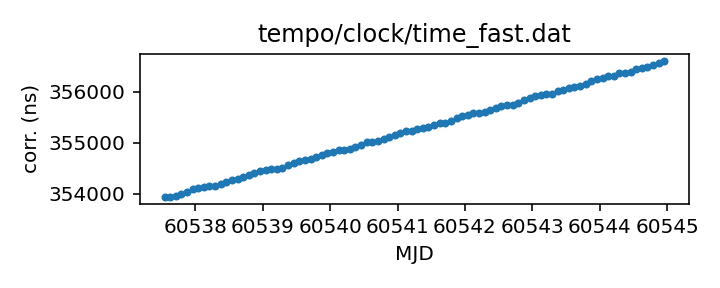
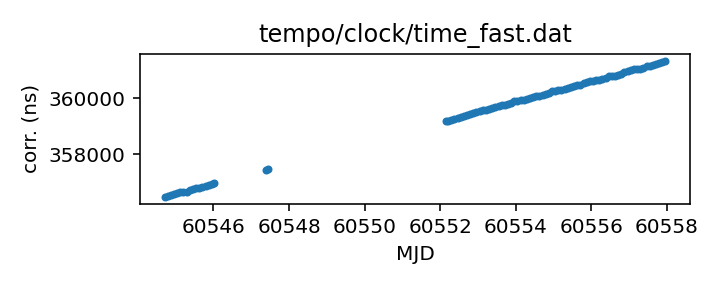
Routine gh-pages update from Github action Fri Sep  6 20:32:08 UTC 2024

diff --git a/status.md b/status.md
@@ -13,18 +13,18 @@ name of each clock file links to a page with more details.
 
 | Name | File | Corrections start | Corrections end | Last check date | Last check result 
 |:--- |:--- | --- | --- | --- |:--- 
-| [GPS to UTC](T2runtime/clock/gps2utc.clk.html) | `T2runtime/clock/gps2utc.clk` | 1993-01-01 MJD 48988.0 | 2024-04-29 MJD 60429.0 | 2024-09-05 | Unchanged 
-| [GPS to UTC (Combined Clock)](T2runtime/clock/gps2utc_cc.clk.html) | `T2runtime/clock/gps2utc_cc.clk` | 1993-01-01 MJD 48988.0 | 2024-04-29 MJD 60429.0 | 2024-09-05 | Unchanged 
-| [GPS to UTC (Corrected)](T2runtime/clock/gps2utc_c0p.clk.html) | `T2runtime/clock/gps2utc_c0p.clk` | 2010-12-29 MJD 55559.0 | 2024-04-29 MJD 60429.0 | 2024-09-05 | Unchanged 
-| [GBT](tempo/clock/time_gbt.dat.html) | `tempo/clock/time_gbt.dat` | 2000-12-31 MJD 51909.5 | 2024-05-18 MJD 60448.5 | 2024-09-05 | **Validation failed** 
+| [GPS to UTC](T2runtime/clock/gps2utc.clk.html) | `T2runtime/clock/gps2utc.clk` | 1993-01-01 MJD 48988.0 | 2024-04-29 MJD 60429.0 | 2024-09-06 | Unchanged 
+| [GPS to UTC (Combined Clock)](T2runtime/clock/gps2utc_cc.clk.html) | `T2runtime/clock/gps2utc_cc.clk` | 1993-01-01 MJD 48988.0 | 2024-04-29 MJD 60429.0 | 2024-09-06 | Unchanged 
+| [GPS to UTC (Corrected)](T2runtime/clock/gps2utc_c0p.clk.html) | `T2runtime/clock/gps2utc_c0p.clk` | 2010-12-29 MJD 55559.0 | 2024-04-29 MJD 60429.0 | 2024-09-06 | Unchanged 
+| [GBT](tempo/clock/time_gbt.dat.html) | `tempo/clock/time_gbt.dat` | 2000-12-31 MJD 51909.5 | 2024-05-18 MJD 60448.5 | 2024-09-06 | **Validation failed** 
 | [GBT (TEMPO2 converted from TEMPO)](T2runtime/clock/gbt2gps.clk.html) | `T2runtime/clock/gbt2gps.clk` | 2000-12-31 MJD 51909.5 | 2024-05-18 MJD 60448.5 | 2024-05-19 | Updated 
-| [Jodrell Bank](T2runtime/clock/jb2gps.clk.html) | `T2runtime/clock/jb2gps.clk` | 2006-10-13 MJD 54021.4 | 2023-12-04 MJD 60282.0 | 2024-08-30 | Unchanged 
-| [Jodrell Bank Roach](T2runtime/clock/jbroach2jb.clk.html) | `T2runtime/clock/jbroach2jb.clk` | 2006-10-13 MJD 54021.4 | 2018-03-20 MJD 58197.6 | 2024-08-30 | Unchanged 
-| [Jodrell Bank DFB](T2runtime/clock/jbdfb2jb.clk.html) | `T2runtime/clock/jbdfb2jb.clk` | 2006-10-13 MJD 54021.4 | 2017-05-11 MJD 57884.0 | 2024-08-30 | Unchanged 
-| [Meerkat (observatory)](T2runtime/clock/mk2utc_observatory.clk.html) | `T2runtime/clock/mk2utc_observatory.clk` | 2019-01-01 MJD 58484.0 | 2024-04-24 MJD 60425.0 | 2024-08-30 | **Failed to download** 
-| [Leap seconds](tempo/clock/leap.sec.html) | `tempo/clock/leap.sec` | 1972-07-01 MJD 41499.0 | 2017-01-01 MJD 57754.0 | 2024-09-05 | Unchanged 
-| [UT1 table](tempo/clock/ut1.dat.html) | `tempo/clock/ut1.dat` | 1973-01-02 MJD 41684.0 | 2025-09-13 MJD 60931.0 | 2024-09-05 | Updated 
-| [UT1 table](T2runtime/clock/ut1.dat.html) | `T2runtime/clock/ut1.dat` | 1973-01-02 MJD 41684.0 | 2025-09-13 MJD 60931.0 | 2024-09-05 | Updated 
+| [Jodrell Bank](T2runtime/clock/jb2gps.clk.html) | `T2runtime/clock/jb2gps.clk` | 2006-10-13 MJD 54021.4 | 2023-12-04 MJD 60282.0 | 2024-09-06 | Unchanged 
+| [Jodrell Bank Roach](T2runtime/clock/jbroach2jb.clk.html) | `T2runtime/clock/jbroach2jb.clk` | 2006-10-13 MJD 54021.4 | 2018-03-20 MJD 58197.6 | 2024-09-06 | Unchanged 
+| [Jodrell Bank DFB](T2runtime/clock/jbdfb2jb.clk.html) | `T2runtime/clock/jbdfb2jb.clk` | 2006-10-13 MJD 54021.4 | 2017-05-11 MJD 57884.0 | 2024-09-06 | Unchanged 
+| [Meerkat (observatory)](T2runtime/clock/mk2utc_observatory.clk.html) | `T2runtime/clock/mk2utc_observatory.clk` | 2019-01-01 MJD 58484.0 | 2024-04-24 MJD 60425.0 | 2024-09-06 | **Failed to download** 
+| [Leap seconds](tempo/clock/leap.sec.html) | `tempo/clock/leap.sec` | 1972-07-01 MJD 41499.0 | 2017-01-01 MJD 57754.0 | 2024-09-06 | Unchanged 
+| [UT1 table](tempo/clock/ut1.dat.html) | `tempo/clock/ut1.dat` | 1973-01-02 MJD 41684.0 | 2025-09-13 MJD 60931.0 | 2024-09-06 | Unchanged 
+| [UT1 table](T2runtime/clock/ut1.dat.html) | `T2runtime/clock/ut1.dat` | 1973-01-02 MJD 41684.0 | 2025-09-13 MJD 60931.0 | 2024-09-06 | Unchanged 
 
 
 
@@ -67,26 +67,26 @@ name of each clock file links to a page with more details.
 
 | Name | File | Corrections start | Corrections end | Last check date | Last check result 
 |:--- |:--- | --- | --- | --- |:--- 
-| [GPS to UTC (TEMPO2)](T2runtime/clock/gps2utc_tempo2.clk.html) | `T2runtime/clock/gps2utc_tempo2.clk` | 1996-03-27 MJD 50169.0 | 2022-10-27 MJD 59879.0 | 2024-08-30 | **Failed to download** 
-| [GBT (TEMPO2)](T2runtime/clock/gbt2gps_tempo2.clk.html) | `T2runtime/clock/gbt2gps_tempo2.clk` | 2000-12-31 MJD 51909.5 | 2020-02-25 MJD 58904.5 | 2024-08-30 | Unchanged 
-| [Jodrell Bank (TEMPO)](tempo/clock/time_jb.dat.html) | `tempo/clock/time_jb.dat` | 2006-10-13 MJD 54021.4 | 2019-05-13 MJD 58616.2 | 2024-08-30 | Unchanged 
-| [VLA](tempo/clock/time_vla.dat.html) | `tempo/clock/time_vla.dat` | 1990-10-27 MJD 48191.2 | 2021-03-07 MJD 59280.5 | 2024-08-30 | Unchanged 
-| [VLA (TEMPO2)](T2runtime/clock/vla2gps.clk.html) | `T2runtime/clock/vla2gps.clk` | 2015-02-01 MJD 57054.6 | 2021-03-07 MJD 59280.5 | 2024-08-30 | Unchanged 
-| [VLA to NIST](T2runtime/clock/vla2nist.clk.html) | `T2runtime/clock/vla2nist.clk` | 1990-10-27 MJD 48191.2 | 1993-11-13 MJD 49304.0 | 2024-08-30 | Unchanged 
-| [FAST](tempo/clock/time_fast.dat.html) | `tempo/clock/time_fast.dat` | 2017-07-27 MJD 57961.0 | 2024-08-22 MJD 60545.0 | 2024-08-30 | Updated 
-| [WSRT](T2runtime/clock/wsrt2gps.clk.html) | `T2runtime/clock/wsrt2gps.clk` | 1999-01-01 MJD 51179.5 | 2015-06-29 MJD 57202.1 | 2024-08-30 | Unchanged 
-| [WSRT (TEMPO)](tempo/clock/time_wsrt.dat.html) | `tempo/clock/time_wsrt.dat` | 1987-07-24 MJD 47000.0 | 2007-12-24 MJD 54458.0 | 2024-08-30 | **Validation failed** 
-| [Parkes](T2runtime/clock/pks2gps.clk.html) | `T2runtime/clock/pks2gps.clk` | 1858-11-17 MJD 0.0 | 2024-07-31 MJD 60522.1 | 2024-08-30 | Unchanged 
-| [Parkes (TEMPO)](tempo/clock/time_pks.dat.html) | `tempo/clock/time_pks.dat` | 1979-05-07 MJD 44000.0 | 2011-07-03 MJD 55745.8 | 2024-08-30 | **Validation failed** 
-| [SRT](T2runtime/clock/srt2gps.clk.html) | `T2runtime/clock/srt2gps.clk` | 2013-03-20 MJD 56371.0 | 2019-12-11 MJD 58828.0 | 2024-08-30 | Unchanged 
-| [Effelsberg](T2runtime/clock/eff2gps.clk.html) | `T2runtime/clock/eff2gps.clk` | 1993-11-29 MJD 49320.0 | 2015-06-22 MJD 57195.5 | 2024-08-30 | Unchanged 
-| [Effelsberg Asterix/PSRix](T2runtime/clock/effix2gps.clk.html) | `T2runtime/clock/effix2gps.clk` | 2011-01-01 MJD 55562.5 | 2021-03-21 MJD 59294.5 | 2024-08-30 | Unchanged 
-| [LEAP](T2runtime/clock/leap2effix.clk.html) | `T2runtime/clock/leap2effix.clk` | 2012-10-29 MJD 56230.0 | 2014-03-04 MJD 56720.0 | 2024-08-30 | Unchanged 
-| [NUPPI](tempo/clock/time_nuppi.dat.html) | `tempo/clock/time_nuppi.dat` | 2005-03-07 MJD 53436.0 | 2015-11-08 MJD 57334.6 | 2024-08-30 | Unchanged 
-| [Meerkat (TEMPO2)](T2runtime/clock/mk2utc.clk.html) | `T2runtime/clock/mk2utc.clk` | 2019-01-01 MJD 58484.0 | 2023-10-18 MJD 60235.9 | 2024-08-30 | Unchanged 
-| [MOST](T2runtime/clock/mo2gps.clk.html) | `T2runtime/clock/mo2gps.clk` | 2003-12-27 MJD 53000.0 | 2018-09-06 MJD 58367.0 | 2024-08-30 | Unchanged 
-| [Nancay to obspm](T2runtime/clock/ncyobs2obspm.clk.html) | `T2runtime/clock/ncyobs2obspm.clk` | 1988-05-18 MJD 47299.6 | 2023-10-27 MJD 60244.0 | 2024-08-30 | Unchanged 
-| [obspm](T2runtime/clock/obspm2gps.clk.html) | `T2runtime/clock/obspm2gps.clk` | 2003-12-01 MJD 52974.0 | 2023-10-27 MJD 60244.0 | 2024-08-30 | Unchanged 
+| [GPS to UTC (TEMPO2)](T2runtime/clock/gps2utc_tempo2.clk.html) | `T2runtime/clock/gps2utc_tempo2.clk` | 1996-03-27 MJD 50169.0 | 2022-10-27 MJD 59879.0 | 2024-09-06 | **Failed to download** 
+| [GBT (TEMPO2)](T2runtime/clock/gbt2gps_tempo2.clk.html) | `T2runtime/clock/gbt2gps_tempo2.clk` | 2000-12-31 MJD 51909.5 | 2020-02-25 MJD 58904.5 | 2024-09-06 | Unchanged 
+| [Jodrell Bank (TEMPO)](tempo/clock/time_jb.dat.html) | `tempo/clock/time_jb.dat` | 2006-10-13 MJD 54021.4 | 2019-05-13 MJD 58616.2 | 2024-09-06 | Unchanged 
+| [VLA](tempo/clock/time_vla.dat.html) | `tempo/clock/time_vla.dat` | 1990-10-27 MJD 48191.2 | 2021-03-07 MJD 59280.5 | 2024-09-06 | Unchanged 
+| [VLA (TEMPO2)](T2runtime/clock/vla2gps.clk.html) | `T2runtime/clock/vla2gps.clk` | 2015-02-01 MJD 57054.6 | 2021-03-07 MJD 59280.5 | 2024-09-06 | Unchanged 
+| [VLA to NIST](T2runtime/clock/vla2nist.clk.html) | `T2runtime/clock/vla2nist.clk` | 1990-10-27 MJD 48191.2 | 1993-11-13 MJD 49304.0 | 2024-09-06 | Unchanged 
+| [FAST](tempo/clock/time_fast.dat.html) | `tempo/clock/time_fast.dat` | 2017-07-27 MJD 57961.0 | 2024-09-04 MJD 60558.0 | 2024-09-06 | Updated 
+| [WSRT](T2runtime/clock/wsrt2gps.clk.html) | `T2runtime/clock/wsrt2gps.clk` | 1999-01-01 MJD 51179.5 | 2015-06-29 MJD 57202.1 | 2024-09-06 | Unchanged 
+| [WSRT (TEMPO)](tempo/clock/time_wsrt.dat.html) | `tempo/clock/time_wsrt.dat` | 1987-07-24 MJD 47000.0 | 2007-12-24 MJD 54458.0 | 2024-09-06 | **Validation failed** 
+| [Parkes](T2runtime/clock/pks2gps.clk.html) | `T2runtime/clock/pks2gps.clk` | 1858-11-17 MJD 0.0 | 2024-07-31 MJD 60522.1 | 2024-09-06 | Unchanged 
+| [Parkes (TEMPO)](tempo/clock/time_pks.dat.html) | `tempo/clock/time_pks.dat` | 1979-05-07 MJD 44000.0 | 2011-07-03 MJD 55745.8 | 2024-09-06 | **Validation failed** 
+| [SRT](T2runtime/clock/srt2gps.clk.html) | `T2runtime/clock/srt2gps.clk` | 2013-03-20 MJD 56371.0 | 2019-12-11 MJD 58828.0 | 2024-09-06 | Unchanged 
+| [Effelsberg](T2runtime/clock/eff2gps.clk.html) | `T2runtime/clock/eff2gps.clk` | 1993-11-29 MJD 49320.0 | 2015-06-22 MJD 57195.5 | 2024-09-06 | Unchanged 
+| [Effelsberg Asterix/PSRix](T2runtime/clock/effix2gps.clk.html) | `T2runtime/clock/effix2gps.clk` | 2011-01-01 MJD 55562.5 | 2021-03-21 MJD 59294.5 | 2024-09-06 | Unchanged 
+| [LEAP](T2runtime/clock/leap2effix.clk.html) | `T2runtime/clock/leap2effix.clk` | 2012-10-29 MJD 56230.0 | 2014-03-04 MJD 56720.0 | 2024-09-06 | Unchanged 
+| [NUPPI](tempo/clock/time_nuppi.dat.html) | `tempo/clock/time_nuppi.dat` | 2005-03-07 MJD 53436.0 | 2015-11-08 MJD 57334.6 | 2024-09-06 | Unchanged 
+| [Meerkat (TEMPO2)](T2runtime/clock/mk2utc.clk.html) | `T2runtime/clock/mk2utc.clk` | 2019-01-01 MJD 58484.0 | 2023-10-18 MJD 60235.9 | 2024-09-06 | Unchanged 
+| [MOST](T2runtime/clock/mo2gps.clk.html) | `T2runtime/clock/mo2gps.clk` | 2003-12-27 MJD 53000.0 | 2018-09-06 MJD 58367.0 | 2024-09-06 | Unchanged 
+| [Nancay to obspm](T2runtime/clock/ncyobs2obspm.clk.html) | `T2runtime/clock/ncyobs2obspm.clk` | 1988-05-18 MJD 47299.6 | 2023-10-27 MJD 60244.0 | 2024-09-06 | Unchanged 
+| [obspm](T2runtime/clock/obspm2gps.clk.html) | `T2runtime/clock/obspm2gps.clk` | 2003-12-01 MJD 52974.0 | 2023-10-27 MJD 60244.0 | 2024-09-06 | Unchanged 
 
 
 ### Further information:

diff --git a/tempo/clock/time_pks.dat.md b/tempo/clock/time_pks.dat.md
@@ -20,12 +20,11 @@ telescopes in the same file, distinguished only by observatory code.
 | Clock file start | 1979-05-07 MJD 44000.0 |
 | Clock file end | 2011-07-03 MJD 55745.8 |
 | Update interval (days) | 7 |
-| Last update attempt | 2024-08-30 |
+| Last update attempt | 2024-09-06 |
 | Last update result | Validation failed |
 
 Log entries from the last few update attempts:
 ```
-2024-06-28 20:29:43.204 - Validation failed: Unable to read new version of tempo/clock/time_pks.dat: Clock file /tmp/astropy-download-1891-89y18t2_ appears to be out of order: 49959.0 > 49958.0
 2024-07-05 20:29:58.943 - Validation failed: Unable to read new version of tempo/clock/time_pks.dat: Clock file /tmp/astropy-download-1810-trqtm1kr appears to be out of order: 49959.0 > 49958.0
 2024-07-12 20:29:38.960 - Validation failed: Unable to read new version of tempo/clock/time_pks.dat: Clock file /tmp/astropy-download-1798-05ao87af appears to be out of order: 49959.0 > 49958.0
 2024-07-19 20:31:11.515 - Validation failed: Unable to read new version of tempo/clock/time_pks.dat: Clock file /tmp/astropy-download-1879-v7corvfs appears to be out of order: 49959.0 > 49958.0
@@ -35,6 +34,7 @@ Log entries from the last few update attempts:
 2024-08-16 20:31:04.370 - Validation failed: Unable to read new version of tempo/clock/time_pks.dat: Clock file /tmp/astropy-download-1819-bg24jb3b appears to be out of order: 49959.0 > 49958.0
 2024-08-23 20:30:59.058 - Validation failed: Unable to read new version of tempo/clock/time_pks.dat: Clock file /tmp/astropy-download-1777-zxlnpoxz appears to be out of order: 49959.0 > 49958.0
 2024-08-30 20:32:33.550 - Validation failed: Unable to read new version of tempo/clock/time_pks.dat: Clock file /tmp/astropy-download-1806-7nmpd07j appears to be out of order: 49959.0 > 49958.0
+2024-09-06 20:31:32.232 - Validation failed: Unable to read new version of tempo/clock/time_pks.dat: Clock file /tmp/astropy-download-1810-y5xp7me4 appears to be out of order: 49959.0 > 49958.0
 ```
 [Full log](https://raw.githubusercontent.com/ipta/pulsar-clock-corrections/main/log/tempo/clock/time_pks.dat.log)
 

diff --git a/tempo/clock/time_wsrt.dat.md b/tempo/clock/time_wsrt.dat.md
@@ -20,12 +20,11 @@ should be the same information.
 | Clock file start | 1987-07-24 MJD 47000.0 |
 | Clock file end | 2007-12-24 MJD 54458.0 |
 | Update interval (days) | 7 |
-| Last update attempt | 2024-08-30 |
+| Last update attempt | 2024-09-06 |
 | Last update result | Validation failed |
 
 Log entries from the last few update attempts:
 ```
-2024-06-28 20:29:38.470 - Validation failed: Unable to read new version of tempo/clock/time_wsrt.dat: Clock file /tmp/astropy-download-1891-katqx_gz appears to be out of order: 53000.05 > 53000.0
 2024-07-05 20:29:55.289 - Validation failed: Unable to read new version of tempo/clock/time_wsrt.dat: Clock file /tmp/astropy-download-1810-6x_oo0y2 appears to be out of order: 53000.05 > 53000.0
 2024-07-12 20:29:34.055 - Validation failed: Unable to read new version of tempo/clock/time_wsrt.dat: Clock file /tmp/astropy-download-1798-yen7urfq appears to be out of order: 53000.05 > 53000.0
 2024-07-19 20:31:07.763 - Validation failed: Unable to read new version of tempo/clock/time_wsrt.dat: Clock file /tmp/astropy-download-1879-ofamkhs8 appears to be out of order: 53000.05 > 53000.0
@@ -35,6 +34,7 @@ Log entries from the last few update attempts:
 2024-08-16 20:30:59.758 - Validation failed: Unable to read new version of tempo/clock/time_wsrt.dat: Clock file /tmp/astropy-download-1819-rydxnzal appears to be out of order: 53000.05 > 53000.0
 2024-08-23 20:30:54.095 - Validation failed: Unable to read new version of tempo/clock/time_wsrt.dat: Clock file /tmp/astropy-download-1777-02v_ey55 appears to be out of order: 53000.05 > 53000.0
 2024-08-30 20:32:28.816 - Validation failed: Unable to read new version of tempo/clock/time_wsrt.dat: Clock file /tmp/astropy-download-1806-v9_cze2w appears to be out of order: 53000.05 > 53000.0
+2024-09-06 20:31:25.517 - Validation failed: Unable to read new version of tempo/clock/time_wsrt.dat: Clock file /tmp/astropy-download-1810-r1trxeay appears to be out of order: 53000.05 > 53000.0
 ```
 [Full log](https://raw.githubusercontent.com/ipta/pulsar-clock-corrections/main/log/tempo/clock/time_wsrt.dat.log)
 

diff --git a/tempo/clock/time_gbt.dat.md b/tempo/clock/time_gbt.dat.md
@@ -33,12 +33,11 @@ If questions arise, contact Ryan S. Lynch <rlynch@nrao.edu>.
 | Clock file start | 2000-12-31 MJD 51909.5 |
 | Clock file end | 2024-05-18 MJD 60448.5 |
 | Update interval (days) | 1 |
-| Last update attempt | 2024-09-05 |
+| Last update attempt | 2024-09-06 |
 | Last update result | Validation failed |
 
 Log entries from the last few update attempts:
 ```
-2024-08-27 20:31:43.708 - Validation failed: New version of tempo/clock/time_gbt.dat clock corrections differ from old version where they overlap in 11 places
 2024-08-28 20:31:41.724 - Validation failed: New version of tempo/clock/time_gbt.dat clock corrections differ from old version where they overlap in 11 places
 2024-08-29 20:31:33.821 - Validation failed: New version of tempo/clock/time_gbt.dat clock corrections differ from old version where they overlap in 11 places
 2024-08-30 20:32:25.789 - Validation failed: New version of tempo/clock/time_gbt.dat clock corrections differ from old version where they overlap in 11 places
@@ -48,6 +47,7 @@ Log entries from the last few update attempts:
 2024-09-03 20:32:45.361 - Validation failed: New version of tempo/clock/time_gbt.dat clock corrections differ from old version where they overlap in 11 places
 2024-09-04 20:34:30.252 - Validation failed: New version of tempo/clock/time_gbt.dat clock corrections differ from old version where they overlap in 11 places
 2024-09-05 20:32:16.530 - Validation failed: New version of tempo/clock/time_gbt.dat clock corrections differ from old version where they overlap in 11 places
+2024-09-06 20:31:22.275 - Validation failed: New version of tempo/clock/time_gbt.dat clock corrections differ from old version where they overlap in 11 places
 ```
 [Full log](https://raw.githubusercontent.com/ipta/pulsar-clock-corrections/main/log/tempo/clock/time_gbt.dat.log)
 

diff --git a/T2runtime/clock/mk2utc_observatory.clk.md b/T2runtime/clock/mk2utc_observatory.clk.md
@@ -21,12 +21,11 @@ If questions arise, contact Ryan Shannon <rshannon@swin.edu.au>
 | Clock file start | 2019-01-01 MJD 58484.0 |
 | Clock file end | 2024-04-24 MJD 60425.0 |
 | Update interval (days) | 7 |
-| Last update attempt | 2024-08-30 |
+| Last update attempt | 2024-09-06 |
 | Last update result | Failed to download |
 
 Log entries from the last few update attempts:
 ```
-2024-06-28 20:29:55.029 - Failed to download: <urlopen error _ssl.c:990: The handshake operation timed out>
 2024-07-05 20:30:07.740 - Unchanged
 2024-07-12 20:29:44.446 - Unchanged
 2024-07-19 20:31:14.053 - Failed to download: HTTP Error 403: Forbidden
@@ -36,6 +35,7 @@ Log entries from the last few update attempts:
 2024-08-16 20:31:06.018 - Failed to download: HTTP Error 403: Forbidden
 2024-08-23 20:31:02.824 - Failed to download: HTTP Error 502: Proxy Error
 2024-08-30 20:32:35.880 - Failed to download: HTTP Error 403: Forbidden
+2024-09-06 20:31:43.821 - Failed to download: The read operation timed out
 ```
 [Full log](https://raw.githubusercontent.com/ipta/pulsar-clock-corrections/main/log/T2runtime/clock/mk2utc_observatory.clk.log)
 

diff --git a/T2runtime/clock/gps2utc_tempo2.clk.md b/T2runtime/clock/gps2utc_tempo2.clk.md
@@ -27,12 +27,11 @@ are from the column C0').
 | Clock file start | 1996-03-27 MJD 50169.0 |
 | Clock file end | 2022-10-27 MJD 59879.0 |
 | Update interval (days) | 7 |
-| Last update attempt | 2024-08-30 |
+| Last update attempt | 2024-09-06 |
 | Last update result | Failed to download |
 
 Log entries from the last few update attempts:
 ```
-2024-06-28 20:29:11.138 - Failed to download: HTTP Error 404: Not Found
 2024-07-05 20:29:14.464 - Failed to download: HTTP Error 404: Not Found
 2024-07-12 20:29:07.006 - Failed to download: HTTP Error 404: Not Found
 2024-07-19 20:30:26.761 - Failed to download: HTTP Error 404: Not Found
@@ -42,6 +41,7 @@ Log entries from the last few update attempts:
 2024-08-16 20:30:32.528 - Failed to download: HTTP Error 404: Not Found
 2024-08-23 20:30:26.601 - Failed to download: HTTP Error 404: Not Found
 2024-08-30 20:32:01.718 - Failed to download: HTTP Error 404: Not Found
+2024-09-06 20:30:57.247 - Failed to download: HTTP Error 404: Not Found
 ```
 [Full log](https://raw.githubusercontent.com/ipta/pulsar-clock-corrections/main/log/T2runtime/clock/gps2utc_tempo2.clk.log)
 

diff --git a/tempo/clock/time_fast.dat.md b/tempo/clock/time_fast.dat.md
@@ -14,14 +14,13 @@ This file is pulled from the FAST_ClockFile repository.
 | Format | tempo |
 | Bogus last correction | False |
 | Clock file start | 2017-07-27 MJD 57961.0 |
-| Clock file end | 2024-08-22 MJD 60545.0 |
+| Clock file end | 2024-09-04 MJD 60558.0 |
 | Update interval (days) | 7 |
-| Last update attempt | 2024-08-30 |
+| Last update attempt | 2024-09-06 |
 | Last update result | Updated |
 
 Log entries from the last few update attempts:
 ```
-2024-06-28 20:29:37.764 - Updated
 2024-07-05 20:29:54.615 - Updated
 2024-07-12 20:29:33.643 - Updated
 2024-07-19 20:31:06.912 - Updated
@@ -31,6 +30,7 @@ Log entries from the last few update attempts:
 2024-08-16 20:30:59.399 - Updated
 2024-08-23 20:30:53.681 - Updated
 2024-08-30 20:32:28.415 - Updated
+2024-09-06 20:31:25.133 - Updated
 ```
 [Full log](https://raw.githubusercontent.com/ipta/pulsar-clock-corrections/main/log/tempo/clock/time_fast.dat.log)
 

diff --git a/T2runtime/clock/gps2utc_c0p.clk.md b/T2runtime/clock/gps2utc_c0p.clk.md
@@ -30,12 +30,11 @@ about the BIPM's published corrections, contact <tai@bipm.org>.
 | Clock file start | 2010-12-29 MJD 55559.0 |
 | Clock file end | 2024-04-29 MJD 60429.0 |
 | Update interval (days) | 1 |
-| Last update attempt | 2024-09-05 |
+| Last update attempt | 2024-09-06 |
 | Last update result | Unchanged |
 
 Log entries from the last few update attempts:
 ```
-2024-08-27 20:31:43.244 - Unchanged
 2024-08-28 20:31:40.785 - Unchanged
 2024-08-29 20:31:33.029 - Unchanged
 2024-08-30 20:32:25.481 - Unchanged
@@ -45,6 +44,7 @@ Log entries from the last few update attempts:
 2024-09-03 20:32:44.202 - Unchanged
 2024-09-04 20:34:29.989 - Unchanged
 2024-09-05 20:32:15.494 - Unchanged
+2024-09-06 20:31:21.843 - Unchanged
 ```
 [Full log](https://raw.githubusercontent.com/ipta/pulsar-clock-corrections/main/log/T2runtime/clock/gps2utc_c0p.clk.log)
 

diff --git a/T2runtime/clock/gps2utc_cc.clk.md b/T2runtime/clock/gps2utc_cc.clk.md
@@ -29,12 +29,11 @@ about the BIPM's published corrections, contact <tai@bipm.org>.
 | Clock file start | 1993-01-01 MJD 48988.0 |
 | Clock file end | 2024-04-29 MJD 60429.0 |
 | Update interval (days) | 1 |
-| Last update attempt | 2024-09-05 |
+| Last update attempt | 2024-09-06 |
 | Last update result | Unchanged |
 
 Log entries from the last few update attempts:
 ```
-2024-08-27 20:31:43.233 - Unchanged
 2024-08-28 20:31:40.774 - Unchanged
 2024-08-29 20:31:33.017 - Unchanged
 2024-08-30 20:32:25.470 - Unchanged
@@ -44,6 +43,7 @@ Log entries from the last few update attempts:
 2024-09-03 20:32:44.188 - Unchanged
 2024-09-04 20:34:29.978 - Unchanged
 2024-09-05 20:32:15.482 - Unchanged
+2024-09-06 20:31:21.829 - Unchanged
 ```
 [Full log](https://raw.githubusercontent.com/ipta/pulsar-clock-corrections/main/log/T2runtime/clock/gps2utc_cc.clk.log)
 

diff --git a/T2runtime/clock/gps2utc.clk.md b/T2runtime/clock/gps2utc.clk.md
@@ -32,12 +32,11 @@ about the BIPM's published corrections, contact <tai@bipm.org>.
 | Clock file start | 1993-01-01 MJD 48988.0 |
 | Clock file end | 2024-04-29 MJD 60429.0 |
 | Update interval (days) | 1 |
-| Last update attempt | 2024-09-05 |
+| Last update attempt | 2024-09-06 |
 | Last update result | Unchanged |
 
 Log entries from the last few update attempts:
 ```
-2024-08-27 20:31:43.205 - Unchanged
 2024-08-28 20:31:40.746 - Unchanged
 2024-08-29 20:31:32.990 - Unchanged
 2024-08-30 20:32:25.442 - Unchanged
@@ -47,6 +46,7 @@ Log entries from the last few update attempts:
 2024-09-03 20:32:44.160 - Unchanged
 2024-09-04 20:34:29.951 - Unchanged
 2024-09-05 20:32:15.455 - Unchanged
+2024-09-06 20:31:21.801 - Unchanged
 ```
 [Full log](https://raw.githubusercontent.com/ipta/pulsar-clock-corrections/main/log/T2runtime/clock/gps2utc.clk.log)
 

diff --git a/T2runtime/clock/ut1.dat.md b/T2runtime/clock/ut1.dat.md
@@ -30,12 +30,11 @@ If there are any questions, contact Anne Archibald
 | File start | 1973-01-02 MJD 41684.0 |
 | File end | 2025-09-13 MJD 60931.0 |
 | Update interval (days) | 0 |
-| Last update attempt | 2024-09-05 |
-| Last update result | Updated |
+| Last update attempt | 2024-09-06 |
+| Last update result | Unchanged |
 
 Log entries from the last few update attempts:
 ```
-2024-08-27 20:31:52.354 - Unchanged
 2024-08-28 20:31:54.912 - Unchanged
 2024-08-29 20:31:47.090 - Updated
 2024-08-30 20:32:44.507 - Unchanged
@@ -45,5 +44,6 @@ Log entries from the last few update attempts:
 2024-09-03 20:32:59.274 - Unchanged
 2024-09-04 20:34:38.656 - Unchanged
 2024-09-05 20:32:29.044 - Updated
+2024-09-06 20:31:52.576 - Unchanged
 ```
 [Full log](https://raw.githubusercontent.com/ipta/pulsar-clock-corrections/main/log/T2runtime/clock/ut1.dat.log)

diff --git a/T2runtime/clock/ncyobs2obspm.clk.md b/T2runtime/clock/ncyobs2obspm.clk.md
@@ -22,12 +22,11 @@ thus here) can be expected to be somewhat up to date.
 | Clock file start | 1988-05-18 MJD 47299.6 |
 | Clock file end | 2023-10-27 MJD 60244.0 |
 | Update interval (days) | 7 |
-| Last update attempt | 2024-08-30 |
+| Last update attempt | 2024-09-06 |
 | Last update result | Unchanged |
 
 Log entries from the last few update attempts:
 ```
-2024-06-28 20:29:56.006 - Unchanged
 2024-07-05 20:30:09.528 - Unchanged
 2024-07-12 20:29:45.234 - Unchanged
 2024-07-19 20:31:15.066 - Unchanged
@@ -37,6 +36,7 @@ Log entries from the last few update attempts:
 2024-08-16 20:31:06.808 - Unchanged
 2024-08-23 20:31:03.637 - Unchanged
 2024-08-30 20:32:36.681 - Unchanged
+2024-09-06 20:31:44.610 - Unchanged
 ```
 [Full log](https://raw.githubusercontent.com/ipta/pulsar-clock-corrections/main/log/T2runtime/clock/ncyobs2obspm.clk.log)
 
